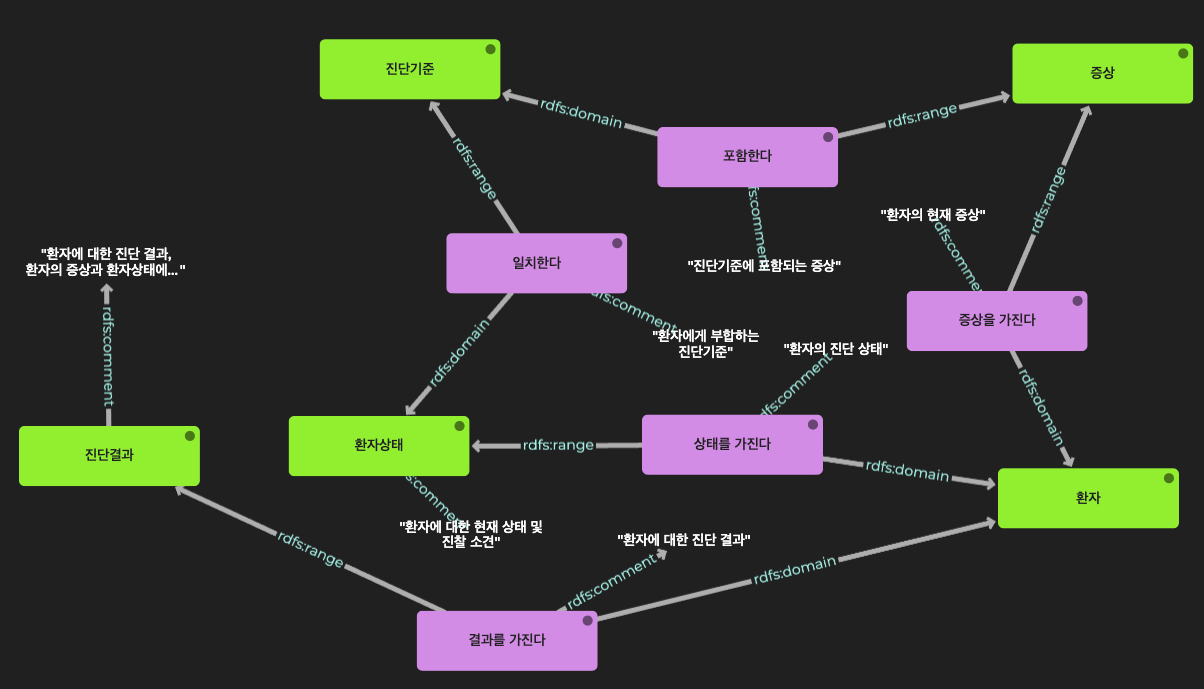
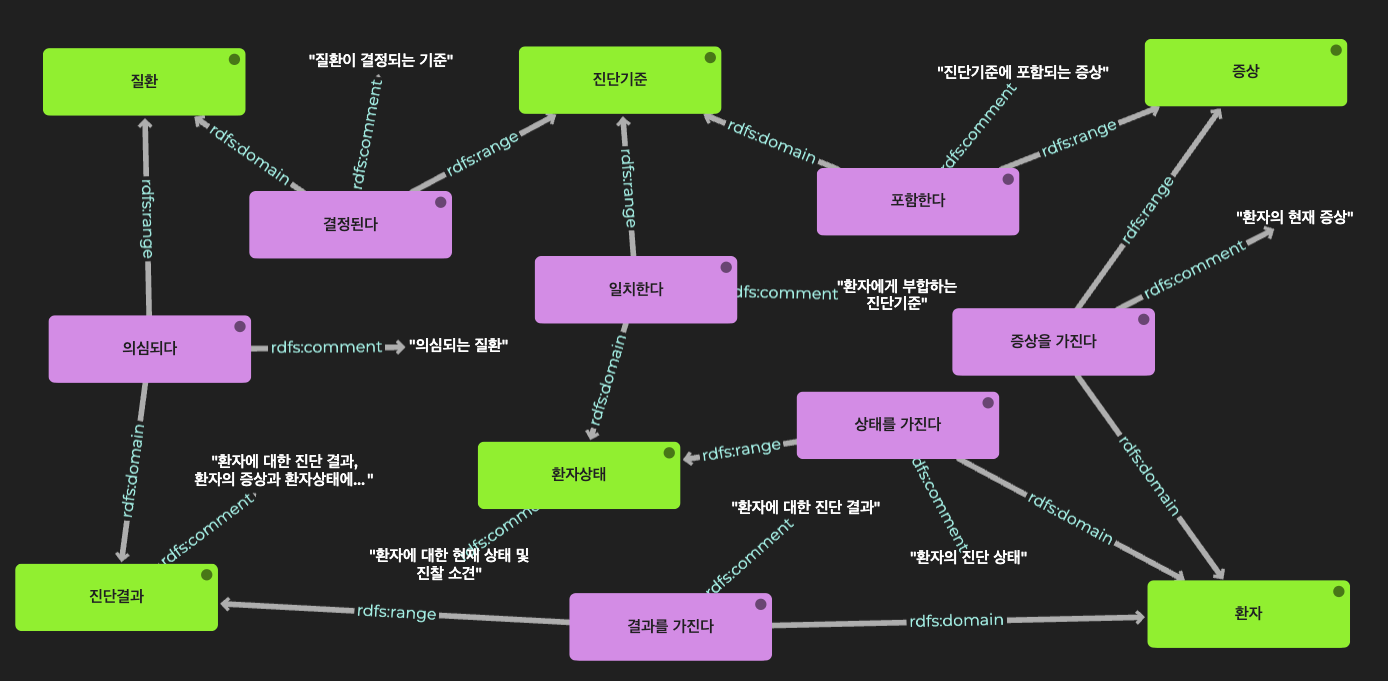
질환 클래스 생성 그림 변경

Changed region(s): [[0.0, 0.0308, 1.0, 0.9868], [0.5839, 0.8326, 0.6453, 0.8634], [0.799, 0.8018, 0.8297, 0.8326]]

diff --git a/triples/triple_maker.py b/triples/triple_maker.py
@@ -5,6 +5,7 @@ import os, logging
 from pathlib import Path
 
 ZIG = Namespace('http://joyhong.tistory.com/zigzag/')
+CPT = Namespace('http://joyhong.tistory.com/concept/')
 ONT = Namespace('http://joyhong.tistory.com/ontology/')
 
 
@@ -13,11 +14,10 @@ def init_graph():
     g = Graph()
 
     # namespace 바인딩
-    # SCHEMA = Namespace("http://schema.org/")
     g.bind("zig", ZIG)
     g.bind("ont", ONT)
     g.bind("owl", OWL)
-    # g.bind("schema", SCHEMA)
+    g.bind("cpt", CPT)
     g.bind("foaf", FOAF)
     g.bind("skos", SKOS)
     g.bind("dcterms", DCTERMS)
@@ -45,12 +45,12 @@ def make_concept():
     df.fillna("", inplace=True)
     g = init_graph()
     for row in df.values:
-        subject = URIRef(ZIG + row[0])
+        subject = URIRef(CPT + row[0])
         g.add((subject, RDF.type, URIRef(SKOS + 'Concept')))
         g.add((subject, RDFS.label, Literal(row[1])))
         g.add((subject, SKOS.prefLabel, Literal(row[0].replace("_", " "))))
         if row[2] != "":
-            g.add((URIRef(ZIG + row[2]), SKOS.narrower, subject))
+            g.add((URIRef(CPT + row[2]), SKOS.narrower, subject))
         if row[3] != "":
             schemes = row[3].split(",")
             for sc in schemes:
@@ -87,7 +87,7 @@ def make_concept_scheme():
 def add_triple(g, subject:URIRef, predicate:URIRef, object_prefix, object_suffix, object_type):
     if object_suffix != "":
         if object_type == URIRef:
-                g.add((subject, predicate, URIRef(object_prefix + object_suffix)))
+            g.add((subject, predicate, URIRef(object_prefix + object_suffix)))
         else:
             g.add((subject, predicate, Literal(object_suffix)))
 
@@ -96,9 +96,9 @@ def make_ontology():
     df = pd.read_excel("../data/headache.xlsx", sheet_name="model")
     df.fillna("", inplace=True)
     g = init_graph()
-    g.add((URIRef(ZIG), RDF.type, URIRef(OWL + 'Ontology')))
-    g.add((URIRef(ZIG), URIRef(OWL + 'imports'), URIRef('http://www.w3.org/2004/02/skos/core')))
-    g.add((URIRef(ZIG), URIRef(OWL + 'versionInfo'), Literal('1.0')))
+    g.add((URIRef(ZIG), RDF.type, OWL.Ontology))
+    g.add((URIRef(ZIG), OWL.imports, URIRef('http://www.w3.org/2004/02/skos/core')))
+    g.add((URIRef(ZIG), OWL.versionInfo, Literal('1.0')))
     g.add((URIRef(ZIG), DC.creator, Literal('Joyhong(su4620@gmail.com)')))
     g.add((URIRef(ZIG), RDFS.comment, Literal('지그재그 토이프로젝트를 위해 두통 도메인에 대한 온톨로지를 구성')))
 
@@ -111,11 +111,45 @@ def make_ontology():
             add_triple(g, subject, RDFS.subClassOf, OWL, 'Thing', URIRef)
         elif row[0] == "objectproperty":
             add_triple(g, subject, RDF.type, OWL, 'ObjectProperty', URIRef)
-            add_triple(g, subject, RDFS.domain, ONT, row[4], URIRef)
-            add_triple(g, subject, RDFS.range, ONT, row[5], URIRef)
+        elif row[0] == "datatypeproperty":
+            add_triple(g, subject, RDF.type, OWL, 'DatatypeProperty', URIRef)
+
+        add_triple(g, subject, RDFS.domain, ONT, row[4], URIRef)
+        add_triple(g, subject, RDFS.range, ONT, row[5], URIRef)
     serialize(g, "headache_ontology.ttl", format='turtle')
 
 
-# make_concept()
-# make_concept_scheme()
+def make_basic():
+    df = pd.read_excel("../data/headache.xlsx", sheet_name="DC")
+    df.fillna("", inplace=True)
+    g = init_graph()
+    for row in df.values:
+        subject = URIRef(ZIG + row[0])
+        add_triple(g, subject, RDF.type, ONT, 'DiagnosisCriteria', URIRef)
+        add_triple(g, subject, RDFS.label, "", row[0], Literal)
+        add_triple(g, subject, RDFS.comment, "", row[1], Literal)
+        if row[2] != "":
+            sym = row[2].split("|")
+            for sy in sym:
+                add_triple(g, subject, URIRef(ONT + 'contain'), ZIG, sy, URIRef)
+        if row[3] != "":
+            disease = row[3].split("|")
+            for ds in disease:
+                add_triple(g, URIRef(ZIG + ds.strip()), URIRef(ONT + 'determinedBy'), ZIG, row[0], URIRef)
+                add_triple(g, URIRef(ZIG + ds.strip()), DCTERMS.subject, CPT, ds, URIRef)
+
+    df = pd.read_excel("../data/headache.xlsx", sheet_name="SY")
+    df.fillna("", inplace=True)
+    for row in df.values:
+        subject = URIRef(ZIG + row[0])
+        add_triple(g, subject, RDF.type, ONT, 'Symptoms', URIRef)
+        add_triple(g, subject, RDFS.label, "", row[0], Literal)
+        add_triple(g, subject, RDFS.comment, "", row[1], Literal)
+
+    serialize(g, "headache_basic.ttl", format='turtle')
+
+
+make_concept()
+make_concept_scheme()
 make_ontology()
+make_basic()

diff --git a/demo/demo.py b/demo/demo.py
@@ -1,0 +1,151 @@
+from SPARQLWrapper import SPARQLWrapper, CSV, POST
+
+# RDFox SPARQL 엔드포인트 설정
+sparql = SPARQLWrapper("http://localhost:12110/datastores/headache/sparql")
+
+prefixes = """
+    PREFIX g: <http://joyhong.tistory.com/graph/>
+    PREFIX zig: <http://joyhong.tistory.com/zigzag/>
+"""
+
+def run_query(query_string:str):
+    sparql.setQuery(prefixes+query_string)
+    sparql.setMethod(POST)
+    # 반환 형식 설정 (JSON)
+    sparql.setReturnFormat(CSV)
+    # 쿼리 실행 및 결과 받기
+    results = sparql.query().convert()
+    return results.decode('utf-8')
+
+
+def check_patient():
+    query = """
+    SELECT *
+    FROM g:user
+    FROM g:inferred
+    WHERE {
+        ?s a ont:Patient.
+        ?s ?p ?o.
+    }
+    """
+    print(run_query(query))
+
+
+def check_patient_with_status_results():
+    query = """
+    SELECT *
+    FROM g:user
+    FROM g:inferred
+    WHERE {
+        ?s a ont:Patient.
+        ?s ont:hasStatus ?status.
+        ?s ont:hasResult ?result.
+        OPTIONAL{ ?status ?sp ?so. }
+        OPTIONAL{ ?result ?rp ?ro. }
+    }
+    """
+    print(run_query(query))
+
+
+def user_setup():
+    query = """
+        INSERT DATA {
+            graph g:user{
+                zig:P01 a ont:Patient.
+                zig:P01 ont:hasStatus zig:PC_P01 .
+                zig:P01 ont:hasResult zig:DC_P01 .
+            }
+        }
+        """
+    print(run_query(query))
+
+
+def start_examination_1():
+    query = """
+        INSERT DATA {
+            graph g:user{
+                zig:P01 ont:hasSymptoms zig:중증도_심도_통증 , zig:구토 , zig:빛공포증 , zig:박동양상 , zig:편측위치 .
+            }
+        }
+        """
+    print(run_query(query))
+
+
+def add_duration():
+    query = """
+        INSERT DATA {
+            graph g:user{
+                zig:P01 ont:duration 3.
+            }
+        }
+        """
+    print(run_query(query))
+
+
+def update_duration(duration):
+    query = """
+        DELETE  {
+            graph g:user{
+                zig:P01 ont:duration ?d.
+            }
+        }
+        INSERT  {
+            graph g:user{
+                zig:P01 ont:duration %s.
+            }
+        }
+        WHERE {
+            graph g:user{
+                zig:P01 ont:duration ?d.
+            }
+        }
+
+        """ % duration
+    print(run_query(query))
+
+def add_frequency():
+    query = """
+        INSERT DATA {
+            graph g:user{
+                zig:P01 ont:frequency 3.
+            }
+        }
+        """
+    print(run_query(query))
+
+def update_frequency(frequency):
+    query = """
+        DELETE  {
+            graph g:user{
+                zig:P01 ont:frequency ?d.
+            }
+        }
+        INSERT  {
+            graph g:user{
+                zig:P01 ont:frequency %s.
+            }
+        }
+        WHERE {
+            graph g:user{
+                zig:P01 ont:frequency ?d.
+            }
+        }
+
+        """ % frequency
+    print(run_query(query))
+
+
+
+# check_patient()
+# user_setup()
+# check_patient_with_status_results()
+# start_examination_1()
+# check_patient_with_status_results()
+# add_duration() # 3시간
+# check_patient_with_status_results()
+# update_duration(8) #8시간
+# check_patient_with_status_results()
+# add_frequency() #3번
+# check_patient_with_status_results()
+update_frequency(5) #5번
+check_patient_with_status_results()
